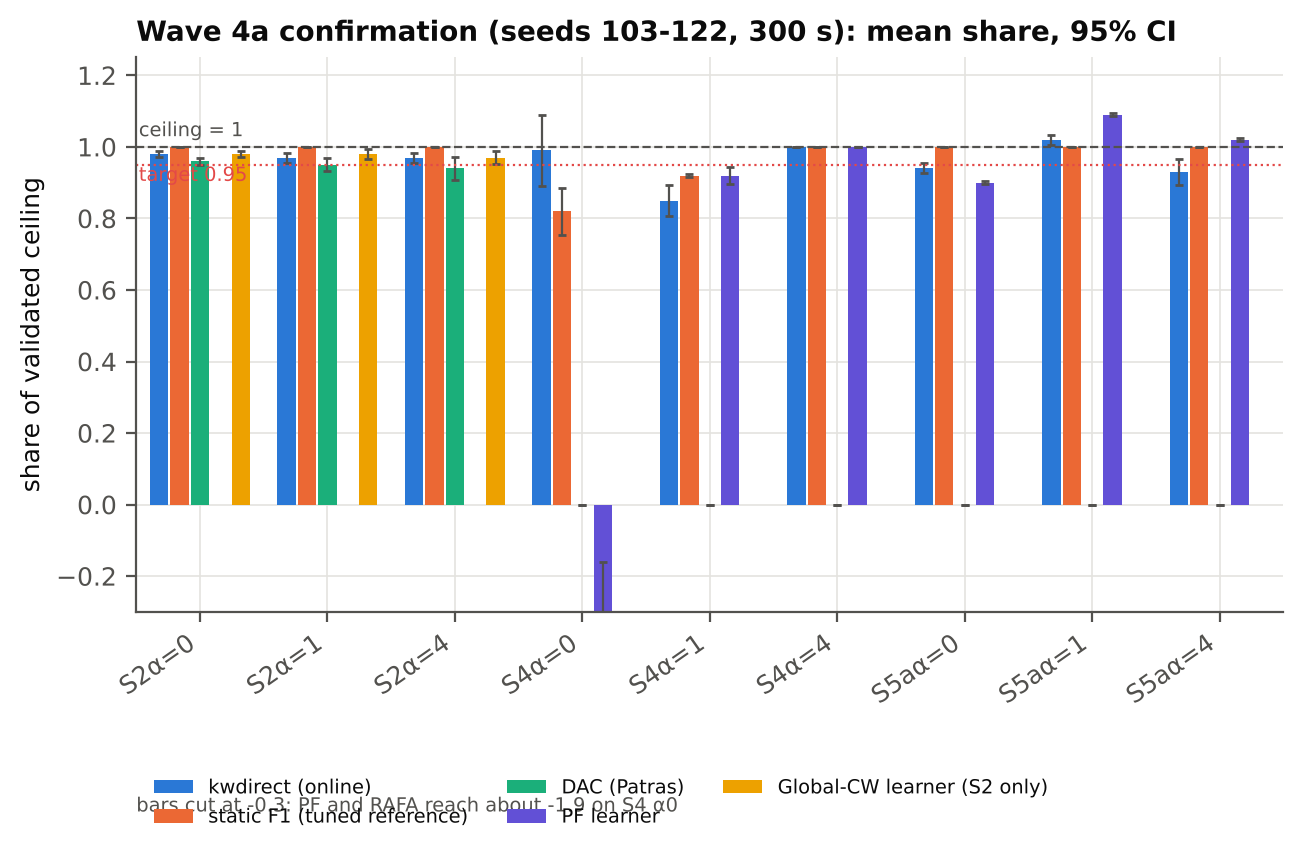
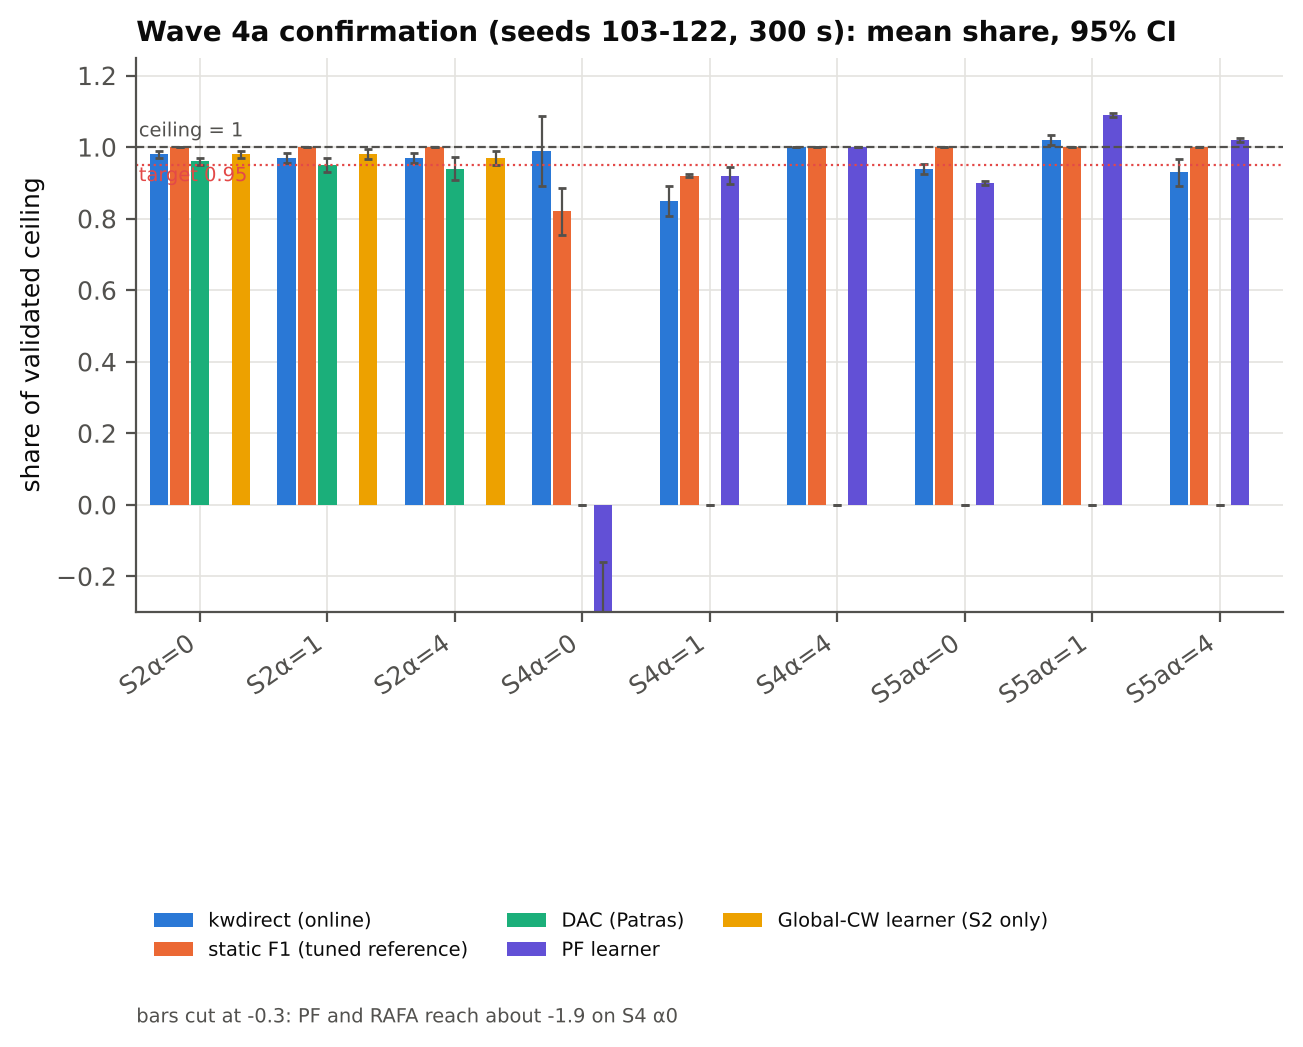
docs(report): static table of contents with page numbers, review fixes
Claude-Session: https://claude.ai/code/session_01RT1HLVdJL8gVh5c5PdDRp6

diff --git a/docs/reports/final-report-v4.1.0/build_docx.js b/docs/reports/final-report-v4.1.0/build_docx.js
@@ -7,7 +7,7 @@ const path = require("path");
 const D = require("docx");
 const {
   Document, Packer, Paragraph, TextRun, Table, TableRow, TableCell, WidthType, ShadingType, AlignmentType, HeadingLevel,
-  BorderStyle, LevelFormat, ImageRun, PageBreak, Footer, Header, PageNumber, TableOfContents, VerticalAlign,
+  BorderStyle, LevelFormat, ImageRun, PageBreak, Footer, Header, PageNumber, TableOfContents, VerticalAlign, Bookmark, InternalHyperlink, TabStopType, LeaderType, Tab,
 } = D;
 
 const ROOT = __dirname;
@@ -15,6 +15,7 @@ const ACCENT = "1F4E79", GREY = "F2F2F2", HEAD = "DCE6F1";
 const CONTENT_W = 9026; // A4 with 1" margins, DXA
 let figN = 0, tabN = 0;
 const children = [];
+const tocItems = [];
 let pendingCaption = null;
 
 function readMd(rel) { return fs.readFileSync(path.join(ROOT, rel), "utf8"); }
@@ -118,7 +119,9 @@ function render(md) {
     if ((m = t.match(/^(#{1,4})\s+(.*)$/))) {
       const lvl = m[1].length;
       const H = [HeadingLevel.HEADING_1, HeadingLevel.HEADING_2, HeadingLevel.HEADING_3, HeadingLevel.HEADING_4][lvl - 1];
-      children.push(new Paragraph({ heading: H, children: [new TextRun(m[2])], pageBreakBefore: lvl === 1 && children.length > 8 }));
+      let kids = [new TextRun(m[2])];
+      if (lvl <= 2) { const bm = "toc" + tocItems.length; tocItems.push({ lvl, text: m[2], bm }); kids = [new Bookmark({ id: bm, children: kids })]; }
+      children.push(new Paragraph({ heading: H, children: kids, pageBreakBefore: lvl === 1 && children.length > 8 }));
       i++; continue;
     }
     if ((m = t.match(/^!\[(.*)\]\((.+?)\)(\{w=(\d+)\})?$/))) { image(m[1], m[2], m[4] ? +m[4] : 560); i++; continue; }
@@ -176,9 +179,20 @@ children.push(new Paragraph({ children: [new TextRun({ text: front.authors, bold
 children.push(new Paragraph({ children: [new TextRun({ text: front.college, size: 22 })], spacing: { after: 40 } }));
 children.push(new Paragraph({ children: [new TextRun({ text: front.version_line.replace("PLACEHOLDER_DATE", process.env.REPORT_DATE || new Date().toISOString().slice(0, 10)).replace("PLACEHOLDER_COMMIT", process.env.REPORT_COMMIT || "unknown"), size: 20, color: "595959" })], spacing: { after: 240 }, border: { bottom: { style: BorderStyle.SINGLE, size: 6, color: ACCENT, space: 6 } } }));
 children.push(new Paragraph({ children: [new TextRun({ text: "Contents", bold: true, size: 28, color: ACCENT })], spacing: { before: 120, after: 80 } }));
-children.push(new TableOfContents("Contents", { hyperlink: true, headingStyleRange: "1-2" }));
+const tocAt = children.length;
 
 for (const f of order) render(readMd(f));
+
+// table of contents: static entries with PAGEREF fields; cached page numbers come from out/toc_pages.json (two-pass build)
+let pages = {};
+try { pages = JSON.parse(fs.readFileSync(path.join(ROOT, "out/toc_pages.json"), "utf8")); } catch (e) { /* first pass */ }
+const tocParas = tocItems.map((it) => new Paragraph({
+  tabStops: [{ type: TabStopType.RIGHT, position: CONTENT_W, leader: LeaderType.DOT }],
+  indent: { left: it.lvl === 1 ? 0 : 360 },
+  spacing: { before: it.lvl === 1 ? 70 : 0, after: 0 },
+  children: [new InternalHyperlink({ anchor: it.bm, children: [new TextRun({ text: it.text, bold: it.lvl === 1, size: it.lvl === 1 ? 21 : 19 }), new TextRun({ children: [new Tab(), String(pages[it.bm] || "")], size: it.lvl === 1 ? 21 : 19 })] })],
+}));
+children.splice(tocAt, 0, ...tocParas, new Paragraph({ children: [new PageBreak()] }));
 
 // numbering configs for numbered lists (one per list)
 const numbering = [{ reference: "bul", levels: [
@@ -188,7 +202,6 @@ for (let k = 1; k <= numRef; k++) numbering.push({ reference: "num" + k, levels:
 
 const doc = new Document({
   creator: front.authors, title: front.title, description: front.subtitle,
-  features: { updateFields: true },
   styles: {
     default: { document: { run: { font: "Calibri", size: 22 } } },
     paragraphStyles: [
@@ -206,4 +219,5 @@ const doc = new Document({
     children,
   }],
 });
+fs.writeFileSync(path.join(ROOT, "out/toc_items.json"), JSON.stringify(tocItems));
 Packer.toBuffer(doc).then((b) => { fs.mkdirSync(path.dirname(path.join(ROOT, process.argv[3])), { recursive: true }); fs.writeFileSync(path.join(ROOT, process.argv[3]), b); console.log("wrote", process.argv[3], b.length, "bytes;", figN, "figures,", tabN, "captioned tables"); });

diff --git a/docs/reports/final-report-v4.1.0/analyze/rep_extra.py b/docs/reports/final-report-v4.1.0/analyze/rep_extra.py
@@ -76,7 +76,7 @@ open(os.path.join(GEN, "compare_new.md"), "w").write(cmp_txt)
 g_one = [K[c]["L-global"]["d"] for c in SINGLE]
 ind = [K[c]["L-indep"]["d"] for c in CELLS if c != "f6u"]
 open(os.path.join(GEN, "exec_new.md"), "w").write(
-    """- **New results in this report (Part I, seeds 400 to 409, 17 cells).** Global-CW OSCAR, one agent with one CW for all APs, improves on BEB by %+.0f %% to %+.0f %% in the 12 single-domain cells (2 to 4 APs, 20 to 100 stations, balanced or not), within %.1f points of the best static CW in each. Independent per-AP OSCAR, trained here with a small budget, is below BEB in %d of %d cells. In the hidden chain (2C) no controller raises the starved middle BSS without lowering the total goodput: per-AP controllers (central online search, PF learner) raise it from %.1f to %.1f and %.1f Mbit/s at %+.1f %% and %+.1f %% of total goodput. BEB with RTS/CTS is about 30 %% below BEB in every saturated cell. Scenario 8 (uplink/downlink) and the OBSS-PD extension cannot be run in this simulator and are reported as such.
+    """- **New results in this report (Part I, seeds 400 to 409, 17 cells).** Global-CW OSCAR, one agent with one CW for all APs, improves on BEB by %+.0f %% to %+.0f %% in the 12 single-domain cells (2 to 4 APs, 20 to 100 stations, balanced or not), within %.1f points of the best static CW in each. Independent per-AP OSCAR, trained here with a small budget, is below BEB in %d of %d saturated cells. In the hidden chain (2C) no controller raises the starved middle BSS without lowering the total goodput: per-AP controllers (central online search, PF learner) raise it from %.1f to %.1f and %.1f Mbit/s at %+.1f %% and %+.1f %% of total goodput. BEB with RTS/CTS is about 30 %% below BEB in every saturated cell. Scenario 8 (uplink/downlink) and the OBSS-PD extension cannot be run in this simulator and are reported as such.
 """ % (min(g_one), max(g_one), max(gap.values()), sum(1 for d_ in ind if d_ < 0), len(ind),
        K["b2c"]["beb"]["per_ap"][1], K["b2c"]["kwdirect-a1"]["per_ap"][1], K["b2c"]["L-pf"]["per_ap"][1], K["b2c"]["kwdirect-a1"]["d"], K["b2c"]["L-pf"]["d"]))
 

diff --git a/docs/reports/final-report-v4.1.0/analyze/rep_cells.py b/docs/reports/final-report-v4.1.0/analyze/rep_cells.py
@@ -46,7 +46,7 @@ def cell_table(cell, name=None):
                      " / ".join(f(v, 1) for v in o["per_ap"]), f(o["jain"][0], 3), f(o["min_sta"][0], 2),
                      "%d%%" % round(100 * o["feas"]), f(o["loss"][0], 2), str(o["n"])])
     hdr = ["Controller", "Total goodput (Mbit/s)", "Δ vs BEB (%)", "Per AP (Mbit/s)", "Jain (per station)", "Worst station (Mbit/s)",
-           "Floor met", "PHY loss", "Seeds"]
+           "Floor met", "PHY loss", "Runs"]
     txt = "Table: %s, stations per AP %s. Goodput in the second half of each 60 s run, mean ± 95%% CI over evaluation seeds 400-409. Learners are averaged over three training seeds per evaluation seed. a = the alpha of the alpha-fair utility used to pick or tune the controller (0: total goodput, 1: proportional fairness).\n" % (
         name or cell, ",".join(map(str, counts)))
     txt += md_table(hdr, rows)
@@ -261,7 +261,7 @@ for cell in ("f6s", "f6u", "b2c", "g7s4"):
             "g7s4": "project scenario S4, 10 stations per AP, AP1 and AP3 cannot hear each other (AP1 / AP2 / AP3)"}[cell]
     open(os.path.join(GEN, "tbl_%s_delay.md" % cell), "w").write(
         "Table: %s: goodput and MAC delay per AP. Delay is the time from enqueue to acknowledged delivery, mean and 99th percentile, in ms; mean over seeds.\n" % note
-        + md_table(["Controller", "Goodput (Mbit/s)", "Mean delay (ms)", "p99 delay (ms)", "Seeds"], rows))
+        + md_table(["Controller", "Goodput (Mbit/s)", "Mean delay (ms)", "p99 delay (ms)", "Runs"], rows))
 
 # ---------------- scenario 7: hidden nodes, RTS/CTS (g7s4, b2*) ----------------
 if "g7s4" in runs and runs["g7s4"]:

diff --git a/docs/reports/final-report-v4.1.0/analyze/toc_pages.py b/docs/reports/final-report-v4.1.0/analyze/toc_pages.py
@@ -1,0 +1,27 @@
+#!/usr/bin/env python3
+"""Page number of every table-of-contents heading, read from the rendered PDF.
+usage: toc_pages.py out/toc_items.json report.pdf out/toc_pages.json"""
+import json, re, subprocess, sys
+
+items = json.load(open(sys.argv[1]))
+npages = int(re.search(r"Pages:\s+(\d+)", subprocess.check_output(["pdfinfo", sys.argv[2]], text=True)).group(1))
+norm = lambda s: re.sub(r"\s+", " ", s.replace(" ", " ")).strip()
+pages = [norm(subprocess.check_output(["pdftotext", "-f", str(p), "-l", str(p), "-layout", sys.argv[2], "-"], text=True)) for p in range(1, npages + 1)]
+# the contents occupy the first pages; start searching after the page that holds the last contents entry followed by page break
+first = 0
+for p, t in enumerate(pages):
+    if "Scenarios to be considered:" in t and not re.search(r"Scenarios to be considered:\s*\.{3,}", t) and t.count("....") < 5:
+        first = p
+        break
+out, pos = {}, first
+for it in items:
+    key = norm(it["text"])[:45]
+    for p in range(pos, npages):
+        if key in pages[p]:
+            out[it["bm"]] = p + 1
+            pos = p
+            break
+    else:
+        print("NOT FOUND", it["text"])
+json.dump(out, open(sys.argv[3], "w"))
+print(len(out), "of", len(items), "headings placed")

diff --git a/docs/reports/final-report-v4.1.0/analyze/maxcw_figs.py b/docs/reports/final-report-v4.1.0/analyze/maxcw_figs.py
@@ -66,8 +66,8 @@ def confirmation():
     ax.set_xticks(range(9)); ax.set_xticklabels([NICE[c] for c in CELLS], rotation=35, ha="right")
     ax.set_ylim(-0.3, 1.25); ax.set_xlim(-0.5, 8.5); ax.set_ylabel("share of validated ceiling")
     ax.set_title("Wave 4a confirmation (seeds 103-122, 300 s): mean share, 95% CI")
-    ax.legend(ncol=3, fontsize=7, loc="lower left", bbox_to_anchor=(0, -0.42))
-    ax.text(0.0, -0.36, "bars cut at -0.3: PF and RAFA reach about -1.9 on S4 α0", transform=ax.transAxes, fontsize=7, color=INK2)
+    ax.legend(ncol=3, fontsize=7, loc="lower left", bbox_to_anchor=(0, -0.66))
+    ax.text(0.0, -0.74, "bars cut at -0.3: PF and RAFA reach about -1.9 on S4 α0", transform=ax.transAxes, fontsize=7, color=INK2)
     return save(fig, "maxcw_confirmation_share.png"), data
 
 

diff --git a/docs/reports/final-report-v4.1.0/analyze/check_part1.py b/docs/reports/final-report-v4.1.0/analyze/check_part1.py
@@ -1,0 +1,13 @@
+#!/usr/bin/env python3
+"""Part I must be the mentor's text: compare the words of sections/10_mentor.md (result directives removed) with analyze/mentor_source.md."""
+import re, sys
+
+def words(t):
+    t = re.sub(r"\{\{results:\w+\}\}", "", t)
+    return re.sub(r"[#|*\-:]", " ", t).split()
+
+a = words(open("analyze/mentor_source.md", encoding="utf8").read())
+b = words(open("sections/10_mentor.md", encoding="utf8").read())
+if a != b:
+    sys.exit("Part I differs from the mentor source")
+print("Part I matches the mentor source (%d words)" % len(a))

diff --git a/docs/reports/final-report-v4.1.0/sections/34_history.md b/docs/reports/final-report-v4.1.0/sections/34_history.md
@@ -27,7 +27,7 @@ Table: BEB, Global-CW OSCAR and independent per-AP OSCAR at 20 and 40 stations, 
 
 ![Aggregate goodput of BEB, Global-CW OSCAR and independent per-AP OSCAR at 20 and 40 stations (3 seeds).](figures/legacy/main_20_40_aggregate.png){w=470}
 
-![Goodput of each AP (20 and 40 stations): the Global-CW agent raises both BSSs.](figures/legacy/main_20_40_per_ap.png){w=420}
+![Goodput of each AP (20 and 40 stations): the Global-CW agent raises both BSSs.](figures/legacy/main_20_40_per_ap.png){w=300}
 
 With n = 3 the intervals are wide, and the independent agents show a large seed spread. A static CW sweep (v3.1.0) puts the ceiling for this topology at the best common static CW of 512 for both APs: 39.62 ± 0.21 Mbps, +12.32 ± 0.84 Mbps over BEB and +3.45 ± 6.77 Mbps over Global-CW (the interval spans zero). So the Global-CW agent reaches most of what any fixed CW can give.
 
@@ -47,7 +47,7 @@ Table: aggregate goodput at a fixed 60 stations (v2.0.0 fixed-binary runs, 3 see
 ![Jain fairness index against the number of APs at a fixed 60 stations.](figures/legacy/fixed60_jain_vs_n.png){w=400}
 
 - BEB is flat in the number of APs at fixed total load (27.4 to 28.1 Mbps).
-- Global-CW OSCAR gains +29.5 % to +33.2 % in every topology and is above BEB in all three seeds.
+- Global-CW OSCAR gains +29.5 % to +32.3 % in every topology and is above BEB in all three seeds.
 - Independent per-AP OSCAR drops from equal to BEB at 2 APs to -46 % at 10 APs. The confidence interval excludes zero at 4 and 10 APs. The likely explanation, which is an inference and was not isolated experimentally, is a selfish game: every agent maximizes its own goodput without BEB's safety net, and its reward changes whenever another agent moves.
 
 ### 4.4 Imbalance and load

diff --git a/docs/reports/final-report-v4.1.0/sections/40_repro.md b/docs/reports/final-report-v4.1.0/sections/40_repro.md
@@ -5,5 +5,5 @@
 - **Runs:** every run is a job in `.github/waves/`; the batch generators are in `.github/scripts/` (`w3a_batch.py` for the tournament, `rep_batch.py` and `rep_select.py` for the report cells). Jobs run in a pinned container image on GitHub Actions; each result stores the SHA-256 of its trace, the CPU model and the commit.
 - **Data:** per-run summaries are collected on branch `wave-collected` (`<wave>/summaries.jsonl`, one line per run); trained actors are on branch `wave-actors`.
 - **Seeds:** tuning 0 to 3; learner training 2000 and up; ceiling validation 200 to 209; tournament 300 to 309; confirmation 103 to 122; report cells 400 to 409 (selection of static points and floors on seeds 0 to 2).
-- **Rebuilding this report:** `bash docs/reports/final-report-v4.1.0/build.sh` regenerates the tables and figures from the result files and writes the Word file. Part I's text comes from the mentor's scenario list (`analyze/mentor_source.md`); a check compares the rendered text with the source.
+- **Rebuilding this report:** `bash docs/reports/final-report-v4.1.0/build.sh <directory with rs2a.jsonl, rs2b.jsonl and rs2c.jsonl> <python with numpy, scipy and matplotlib>` (the three files are `<wave>/summaries.jsonl` from branch `wave-collected`; node with the `docx` package is also needed) regenerates the tables and figures from the result files and writes the Word file. Part I's text comes from the mentor's scenario list (`analyze/mentor_source.md`); `analyze/check_part1.py`, run by the build, fails if Part I differs from that source word for word.
 {{include:generated/build_info.md}}

diff --git a/docs/reports/final-report-v4.1.0/sections/39_limits.md b/docs/reports/final-report-v4.1.0/sections/39_limits.md
@@ -9,5 +9,5 @@
 - **Determinism.** Learner runs hash differently on Intel and AMD CPUs; learned results are compared by their statistics, not bit-identity. Non-learned runs were identical across machines.
 - **Early studies.** v1.1 to v1.9 agent results used a start with CW 0 and are not used for conclusions; the v2 studies have only three seeds and wide intervals.
 - **New mentor-scenario cells.** They have no validated static optimum (a ceiling search needs thousands of runs per cell), so they are reported with BEB as the reference and absolute goodput, fairness, collisions and delay, not as a share of a ceiling. Learner training in the new cells uses three training seeds and no selection; the results of all three seeds are averaged.
-- **Infrastructure.** Three Actions runs were cancelled by GitHub for an unknown reason in the confirmation wave and were rerun; the data is complete.
+- **Infrastructure.** GitHub cancelled three Actions runs in the confirmation wave and, in the report evaluation, run rs2b after 1,272 of its 1,289 jobs (no reason was given). The lost jobs were rerun (rs2c) and every result is complete.
 - **Novelty.** The comparison with the related work (Gawłowicz et al. and others) was not checked line by line.
